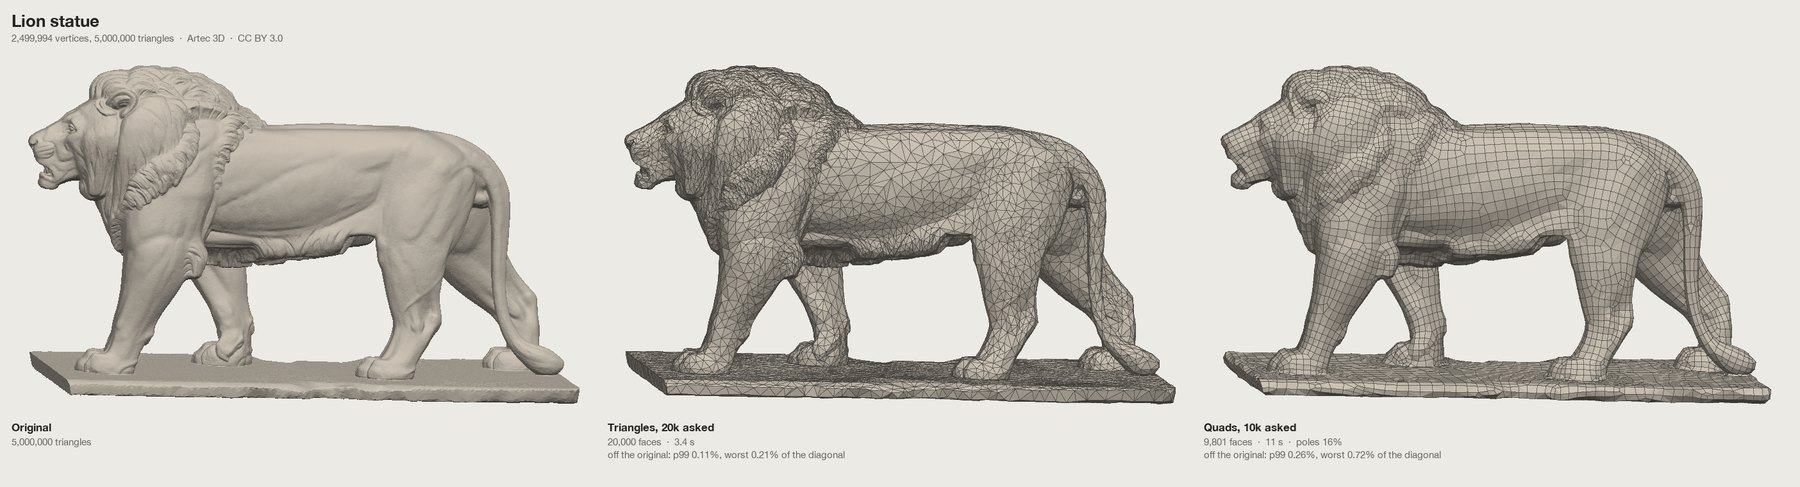
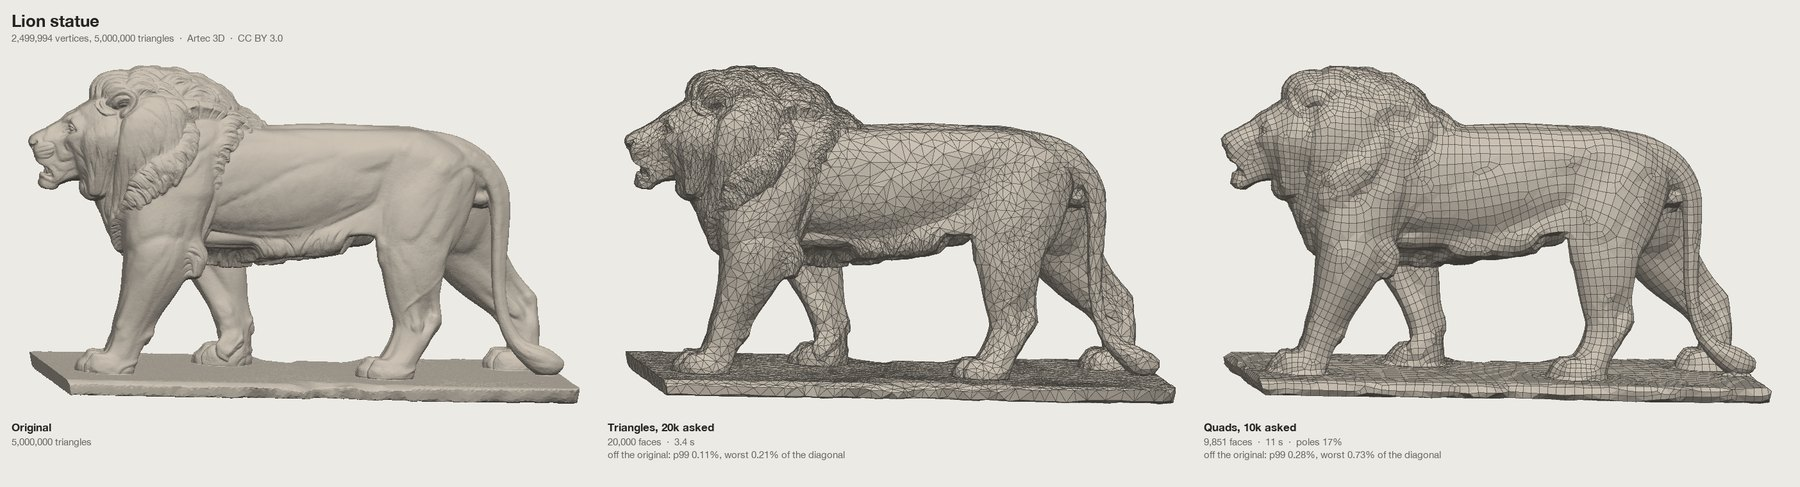
Quads at most twice as long as wide, for rigging
Follow the shape let quads grow four times longer than wide along the
direction a surface bends least. On limbs that runs along the bone, so
a forearm's edge loops lay twice as far apart across the elbow as with
square quads: too few loops where a rig bends. Quads now stretch at most
twice over; the sizing by curvature is unchanged otherwise.

Measured on the body scan and the core test models, against the previous
commit:
- Body at 10k quads: p99 0.059% -> 0.066% of the diagonal, worst 0.59%
  -> 0.41%, poles 14.0% -> 13.2%; the upper arm gets evenly spaced loops
  through the elbow.
- Core models: p99 up 0-17% (typically 5-10%), poles equal or slightly
  fewer (2-5 points fewer on the road bike and the Bistro); the bearded
  head's two non-manifold edges at 30k are gone. All budgets hold.
- test_quads: the long-quads check on a thin ring asks for 1.5:1 now
  (it measures 1.8:1 under the new cap).
- README examples redrawn and timings updated.

Changed region(s): [[0.6844, 0.1232, 0.9956, 0.8316]]

diff --git a/index.html b/index.html
@@ -3405,7 +3405,8 @@ function intersect2(a1, b1, d1, a2, b2, d2, out) {
 // κh²/8, so an even error everywhere asks for edges h = c/√κ along each principal direction: short across the
 // direction that bends most, long along the one that bends least (square faces spend √(κ1/κ2) times more, which on
 // tubes, folds and limbs is several times), and faces per area in proportion to √(κ1κ2). Edges stay within
-// [hMin, hMax] × the even size √(area / target) and the long one within alpha × the short one; strength blends from
+// [hMin, hMax] × the even size √(area / target) and the long one within alpha × the short one (twice: at four times,
+// a forearm's loops lay twice as far apart across the elbow, for a few percent of accuracy); strength blends from
 // even squares (0) to that (1) in log space; c is found for the target. Then no edge length may grow by more than
 // grade × the distance from a neighbour's, along each of the neighbour's directions (Frédéric Alauzet, "Size gradation
 // control of anisotropic meshes", 2010): along a tube the long edges then stay even all around it, as a grid of
@@ -3414,7 +3415,7 @@ function intersect2(a1, b1, d1, a2, b2, d2, out) {
 // cylinder carry onto its flat cap instead of meeting its big quads at the rim. The result is scaled back to the target.
 function formSizes(an, target, strength, opt = {}) {
   const { cl, nstart, nid, kb, ks, dir, area, V } = an, C = cl.count, CN = cl.normals, CP = cl.positions;
-  const hMin = opt.hMin ?? 0.15, hMax = opt.hMax ?? 2.5, alpha = opt.alpha ?? 4, grade = opt.grade ?? 0.3;
+  const hMin = opt.hMin ?? 0.15, hMax = opt.hMax ?? 2.5, alpha = opt.alpha ?? 2, grade = opt.grade ?? 0.3;
   const h0 = Math.sqrt(area / target);
   // held: sizes kept for a thin part (see below).
   const h1 = new Float64Array(C), h2 = new Float64Array(C), held = new Uint8Array(C);
@@ -9559,7 +9560,8 @@ function intersect2(a1, b1, d1, a2, b2, d2, out) {
 // κh²/8, so an even error everywhere asks for edges h = c/√κ along each principal direction: short across the
 // direction that bends most, long along the one that bends least (square faces spend √(κ1/κ2) times more, which on
 // tubes, folds and limbs is several times), and faces per area in proportion to √(κ1κ2). Edges stay within
-// [hMin, hMax] × the even size √(area / target) and the long one within alpha × the short one; strength blends from
+// [hMin, hMax] × the even size √(area / target) and the long one within alpha × the short one (twice: at four times,
+// a forearm's loops lay twice as far apart across the elbow, for a few percent of accuracy); strength blends from
 // even squares (0) to that (1) in log space; c is found for the target. Then no edge length may grow by more than
 // grade × the distance from a neighbour's, along each of the neighbour's directions (Frédéric Alauzet, "Size gradation
 // control of anisotropic meshes", 2010): along a tube the long edges then stay even all around it, as a grid of
@@ -9568,7 +9570,7 @@ function intersect2(a1, b1, d1, a2, b2, d2, out) {
 // cylinder carry onto its flat cap instead of meeting its big quads at the rim. The result is scaled back to the target.
 function formSizes(an, target, strength, opt = {}) {
   const { cl, nstart, nid, kb, ks, dir, area, V } = an, C = cl.count, CN = cl.normals, CP = cl.positions;
-  const hMin = opt.hMin ?? 0.15, hMax = opt.hMax ?? 2.5, alpha = opt.alpha ?? 4, grade = opt.grade ?? 0.3;
+  const hMin = opt.hMin ?? 0.15, hMax = opt.hMax ?? 2.5, alpha = opt.alpha ?? 2, grade = opt.grade ?? 0.3;
   const h0 = Math.sqrt(area / target);
   // held: sizes kept for a thin part (see below).
   const h1 = new Float64Array(C), h2 = new Float64Array(C), held = new Uint8Array(C);

diff --git a/src/quad.js b/src/quad.js
@@ -2383,7 +2383,8 @@ function intersect2(a1, b1, d1, a2, b2, d2, out) {
 // κh²/8, so an even error everywhere asks for edges h = c/√κ along each principal direction: short across the
 // direction that bends most, long along the one that bends least (square faces spend √(κ1/κ2) times more, which on
 // tubes, folds and limbs is several times), and faces per area in proportion to √(κ1κ2). Edges stay within
-// [hMin, hMax] × the even size √(area / target) and the long one within alpha × the short one; strength blends from
+// [hMin, hMax] × the even size √(area / target) and the long one within alpha × the short one (twice: at four times,
+// a forearm's loops lay twice as far apart across the elbow, for a few percent of accuracy); strength blends from
 // even squares (0) to that (1) in log space; c is found for the target. Then no edge length may grow by more than
 // grade × the distance from a neighbour's, along each of the neighbour's directions (Frédéric Alauzet, "Size gradation
 // control of anisotropic meshes", 2010): along a tube the long edges then stay even all around it, as a grid of
@@ -2392,7 +2393,7 @@ function intersect2(a1, b1, d1, a2, b2, d2, out) {
 // cylinder carry onto its flat cap instead of meeting its big quads at the rim. The result is scaled back to the target.
 export function formSizes(an, target, strength, opt = {}) {
   const { cl, nstart, nid, kb, ks, dir, area, V } = an, C = cl.count, CN = cl.normals, CP = cl.positions;
-  const hMin = opt.hMin ?? 0.15, hMax = opt.hMax ?? 2.5, alpha = opt.alpha ?? 4, grade = opt.grade ?? 0.3;
+  const hMin = opt.hMin ?? 0.15, hMax = opt.hMax ?? 2.5, alpha = opt.alpha ?? 2, grade = opt.grade ?? 0.3;
   const h0 = Math.sqrt(area / target);
   // held: sizes kept for a thin part (see below).
   const h1 = new Float64Array(C), h2 = new Float64Array(C), held = new Uint8Array(C);

diff --git a/test/test_quads.js b/test/test_quads.js
@@ -264,7 +264,7 @@ const seamValences = (r, axis, offset) => {
     return { aspect: med(along) / med(around), around: (2 * Math.PI * r0) / med(around), mean: off.reduce((x, y) => x + y, 0) / off.length, faces: rq.faceCount };
   };
   const even = ring(0), long = ring(1);
-  check(long.aspect > 1.8 && even.aspect < 1.3 && long.around > even.around * 1.3 && long.mean < even.mean * 0.8,
+  check(long.aspect > 1.5 && even.aspect < 1.3 && long.around > even.around * 1.3 && long.mean < even.mean * 0.8,
     `long quads: on a thin ring ${long.aspect.toFixed(1)}:1 quads with ${long.around.toFixed(1)} around the tube (even squares: ${even.aspect.toFixed(1)}:1, ${even.around.toFixed(1)} around), face middles ${long.mean.toFixed(4)} off the surface on average (${even.mean.toFixed(4)})`);
 }
 

diff --git a/README.md b/README.md
@@ -58,10 +58,10 @@ The toggle at the top of the budget picks what comes out; Quads is the default.
   - Each patch's thickness is how far a ray into the surface runs to the far side of the solid. Rays across a gap between parts don't count, since the grid can't join parts it has no edges between.
   - Connected thin regions get their smaller quads whole, cheapest first, from up to a tenth of the budget: lips, eyelids, ears and fingertips before the spokes of a wheel, which at game budgets are too many to save. Quads get at most twice as fine for it.
   - On a body scan at 5,000 quads, lips and ears keep their shape: the thin areas stay within 12 mm of the original at the 99th percentile instead of 16, and the worst point moves from 31 to 20 mm. Most scans gain a little accuracy. It costs up to one pole in a hundred vertices on most models, four on a hard-surface car scan; turn it off where the poles matter more.
-- **Follow the shape** (75% by default) sizes and stretches each quad by the surface under it. A quad side of length h along a direction in which the surface bends by κ misses it by about κh²/8. For the same small error in every direction, a quad is short across the direction the surface bends most and long along the direction it bends least. A chain, strap or strand of hair gets long quads along it and several edges around it; a skirt fold gets long quads down the fold; a flat back gets big square ones. Square quads that keep the same error need several times as many wherever the surface bends mostly one way: three times as many over a whole generated character.
+- **Follow the shape** (75% by default) sizes and stretches each quad by the surface under it. A quad side of length h along a direction in which the surface bends by κ misses it by about κh²/8. For the same small error in every direction, a quad is short across the direction the surface bends most and long along the direction it bends least. A chain, strap or strand of hair gets long quads along it and several edges around it; a skirt fold gets long quads down the fold; a flat back gets big square ones. Square quads that keep the same error need more of them wherever the surface bends mostly one way.
   - The edge flow follows the shape too: where quads stretch, the edges turn to run along the direction of least bending.
   - The curvature is measured once per model, over patches about 0.3% of its size. Its signed averages cancel the noise of scans and generated meshes, and edges kept sharp are left out.
-  - Quads stay between 0.15 and 2.5 times the average size, and at most four times longer than wide. Sizes change gradually from place to place, so the grid can follow them.
+  - Quads stay between 0.15 and 2.5 times the average size, and at most twice as long as wide, so a rigged limb keeps its loops close enough across a joint to bend (at four times, a forearm's loops lay twice as far apart across the elbow). Sizes change gradually from place to place, so the grid can follow them.
   - Higher values follow the shape more closely, and changes of size cost poles. On a generated character at 21k quads, 0% misses the original by 0.078% of the model's size on average, with one vertex in nine a pole. 75% misses by 0.052%, with one pole in five or six vertices. 100% misses by 0.049%, with one in five. At 75% a necklace comes out as a round tube with long quads along it, instead of a flattened ribbon.
 - **Fewer poles.** A quad side may get longer or shorter freely along its own direction, but across it only as fast as the edges bend. Sizes that change faster than that make the grid start extra rows of quads, and every row that starts or ends inside the surface leaves a pair of poles. So before the grid is laid, the sizes are adjusted where the ones the shape asks for can't be tiled, as little as possible and never much larger. Painted sizes are kept as painted. On two generated characters at 21k and 20k quads, this cut the poles from 23.7% to 19.3% and from 23.9% to 20.0% of the vertices, for 2 to 4% more average deviation. A torus, which needs no poles at all, gets half as many.
 - Triangles mode does this by itself. The simplifier always takes the collapse that moves the surface least, so flat areas merge into large triangles first, small forms keep theirs, and triangles come out stretched the same way. For crisp small hard-surface details at a low count, Triangles mode is still the better choice.
@@ -70,7 +70,7 @@ The toggle at the top of the budget picks what comes out; Quads is the default.
 - Normals are taken from the original surface where each new vertex sits (Original or Smooth), or creased at an angle.
 - FBX and OBJ store the faces as quads. GLB can only hold triangles, so it gets two per quad.
 
-Quads mode takes longer than a reduction, with the progress in the result card. For the example models at 10,000 quads it took 6 to 11 seconds, and 3 to 25 seconds for the other test models at 10,000 and 30,000 quads; two torture cases took longer, a restaurant interior of many small parts up to 51 seconds and a ball of hair strands up to 87 (in Node on an Apple M5 Pro).
+Quads mode takes longer than a reduction, with the progress in the result card. For the example models at 10,000 quads it took 5 to 11 seconds, and 3 to 27 seconds for the other test models at 10,000 and 30,000 quads; two torture cases took longer, a restaurant interior of many small parts up to 37 seconds and a ball of hair strands up to 81 (in Node on an Apple M5 Pro).
 
 ### Paint where detail matters
 
@@ -181,7 +181,7 @@ Each tab holds its own model, paint, mirror plane, budget, view and bakes. A mod
 Quads mode replaces step 4 with a remesher (`src/quad.js`) that follows [Instant Meshes](https://github.com/wjakob/instant-meshes) (Jakob, Tarini, Panozzo and Sorkine-Hornung, *Instant Field-Aligned Meshes*, SIGGRAPH Asia 2015):
 
 1. The welded model is merged once more by position alone, so UV seams, hard edges and material borders no longer cut the surface.
-2. With Follow the shape, the edge lengths wanted along each direction are worked out first. Curvature tensors from the normal cycle (Cohen-Steiner and Morvan, *Restricted Delaunay Triangulations and Normal Cycle*, 2003) are summed over patches about 0.3% of the model's size, and give the two principal curvatures and their directions. Each patch gets edges of c/√κ along each principal direction, clamped, with c set for the budget. Then no edge length may grow faster than 0.3 times the distance from a neighbour's, per direction (Alauzet, *Size Gradation Control of Anisotropic Meshes*, 2010). This keeps the long edges even all around a tube, as a grid of closed loops needs, and lets the grid follow the sizes. Across a kept sharp edge only the length along the edge is graded, since both sides share that edge loop; it shrinks at most threefold, and quads stay at most four times longer than wide. With Keep thin parts, each patch's thickness (a ray from five of its vertices straight inward to the far wall, the median of them) caps its edges so that a cross-section spans a grid step, for connected thin regions in order of cost, from up to a tenth of the budget; c is then set again for the rest.
+2. With Follow the shape, the edge lengths wanted along each direction are worked out first. Curvature tensors from the normal cycle (Cohen-Steiner and Morvan, *Restricted Delaunay Triangulations and Normal Cycle*, 2003) are summed over patches about 0.3% of the model's size, and give the two principal curvatures and their directions. Each patch gets edges of c/√κ along each principal direction, clamped, with c set for the budget. Then no edge length may grow faster than 0.3 times the distance from a neighbour's, per direction (Alauzet, *Size Gradation Control of Anisotropic Meshes*, 2010). This keeps the long edges even all around a tube, as a grid of closed loops needs, and lets the grid follow the sizes. Across a kept sharp edge only the length along the edge is graded, since both sides share that edge loop; it shrinks at most threefold, and quads stay at most twice as long as wide. With Keep thin parts, each patch's thickness (a ray from five of its vertices straight inward to the far wall, the median of them) caps its edges so that a cross-section spans a grid step, for connected thin regions in order of cost, from up to a tenth of the budget; c is then set again for the rest.
 3. A dense surface is clustered into a working surface of about two and a half vertices per shortest quad edge. Edges still longer than 0.7 of a grid step along their own direction are split, up to 40 working vertices per quad asked (scans need about 12; across strands thinner than a quad, splitting would multiply the input).
 4. A multi-resolution hierarchy of ever coarser vertex graphs is built. Two fields are smoothed on it from the coarsest level down. The direction field says which way edges run, up to quarter turns. The position field says where the corners of a grid of the target edge lengths sit, and that grid may be longer one way than the other. The fields read normals smoothed over about one quad, sparing edges sharper than 60°, so bumps smaller than a quad don't seed poles. Along kept sharp edges each vertex takes one side's normal. Painted density and small pieces shrink the grid locally. Where the wanted edges are longer one way, the direction field is pulled toward that way. Open borders, the mirror plane and kept sharp edges are constraints: edges run along them, and a grid line passes through them.
 5. The grid steps are fitted to what the direction field allows. A grid with steps s<sub>u</sub> along the edge direction e<sub>1</sub> and s<sub>v</sub> across it closes up only where ∂<sub>e2</sub> log s<sub>u</sub> = −ω(e<sub>1</sub>) and ∂<sub>e1</sub> log s<sub>v</sub> = ω(e<sub>2</sub>), with ω the rate at which the direction field turns (Cartan's structure equations for the co-frame e<sub>1</sub>/s<sub>u</sub>, e<sub>2</sub>/s<sub>v</sub>). Where the wanted steps break this, the position field answers with a pole pair, a dislocation in the grid, which QuadriFlow (Huang et al., *QuadriFlow: A Scalable and Robust Method for Quadrangulation*, 2018) counts as a position singularity. On a torus with even steps, nearly nine in ten poles sit within two edges of one. The log steps are fitted to the condition in least squares on the working surface's triangles, held to the wanted steps with a weight that makes them drift over about eight quads. Growth costs 25 times more than shrinking, and steps stay between the smallest the working surface resolves and 1.1 times the wanted ones. ω is averaged over neighbouring triangles, since per triangle it is noisy, and painted density is left out of the fit. The first grid is scaled for the density change, so the first extraction lands on the budget.
